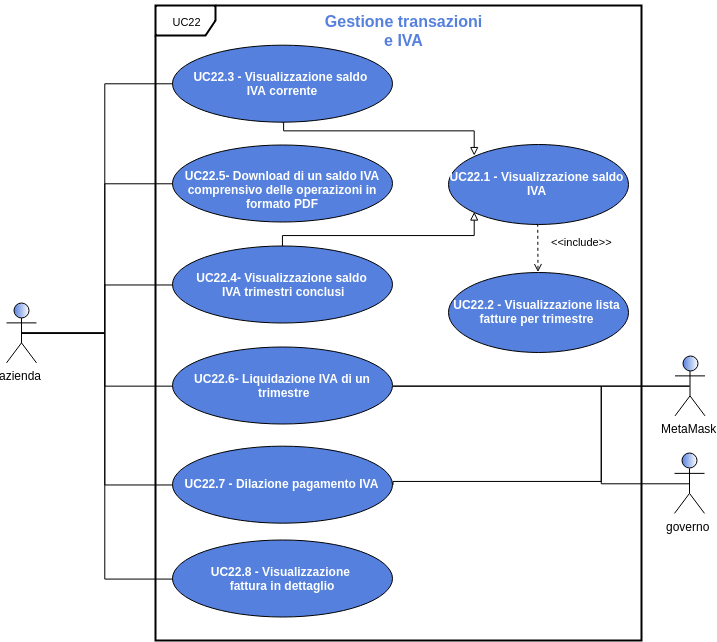
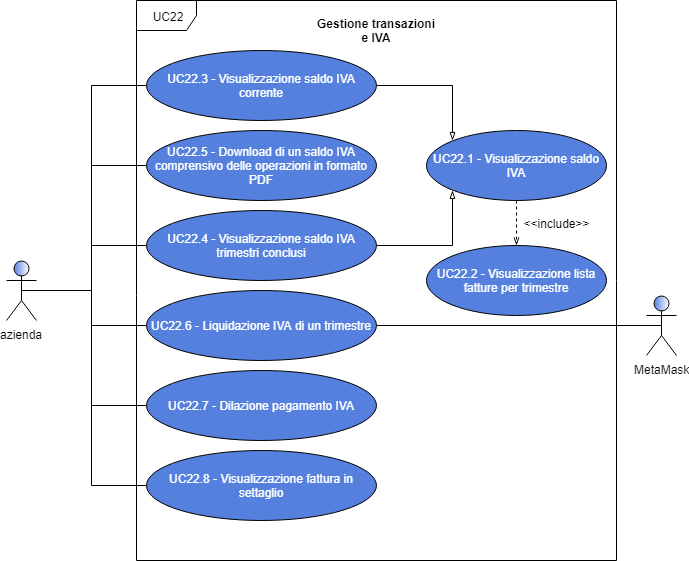
fixati UC19.2-3 e UC22

Changed region(s): [[0.0, 0.0, 1.0, 1.0]]

diff --git a/03-RQ/Esterni/Analisi_dei_requisiti/res/sections/UC/UC15IVAAzienda.tex b/03-RQ/Esterni/Analisi_dei_requisiti/res/sections/UC/UC15IVAAzienda.tex
@@ -6,6 +6,7 @@
 \end{figure}
 \begin{itemize}
 	\item \textbf{Attori Primari}: azienda;
+	\item \textbf{Attori Secondari}: Metamask\glo;% governo;
 	\item \textbf{Descrizione}: alle aziende sono messe a disposizione diverse operazioni per gestire le transazioni e l'IVA:
 	\begin{itemize}
 		\item può visualizzare le informazioni di un trimestre IVA, che comprenda la visualizzazione di tutte le transazioni avvenute, rappresentate dalle rispettive fatture e del saldo IVA [22.3 \& 22.4];

diff --git a/03-RQ/Esterni/Analisi_dei_requisiti/res/sections/UC/UC12-13NuovoAccount.tex b/03-RQ/Esterni/Analisi_dei_requisiti/res/sections/UC/UC12-13NuovoAccount.tex
@@ -30,6 +30,11 @@
 
 
 \subsubsection{UC19.2 - Disabilitazione account}
+\begin{figure}[h]
+	\includegraphics[width=8cm]{res/images/UC19-2.png}
+	\centering
+	\caption{UC19.2 - Disabilitazione account}
+\end{figure}
 \begin{itemize}
 	\item \textbf{Attori Primari}:
 	governo;
